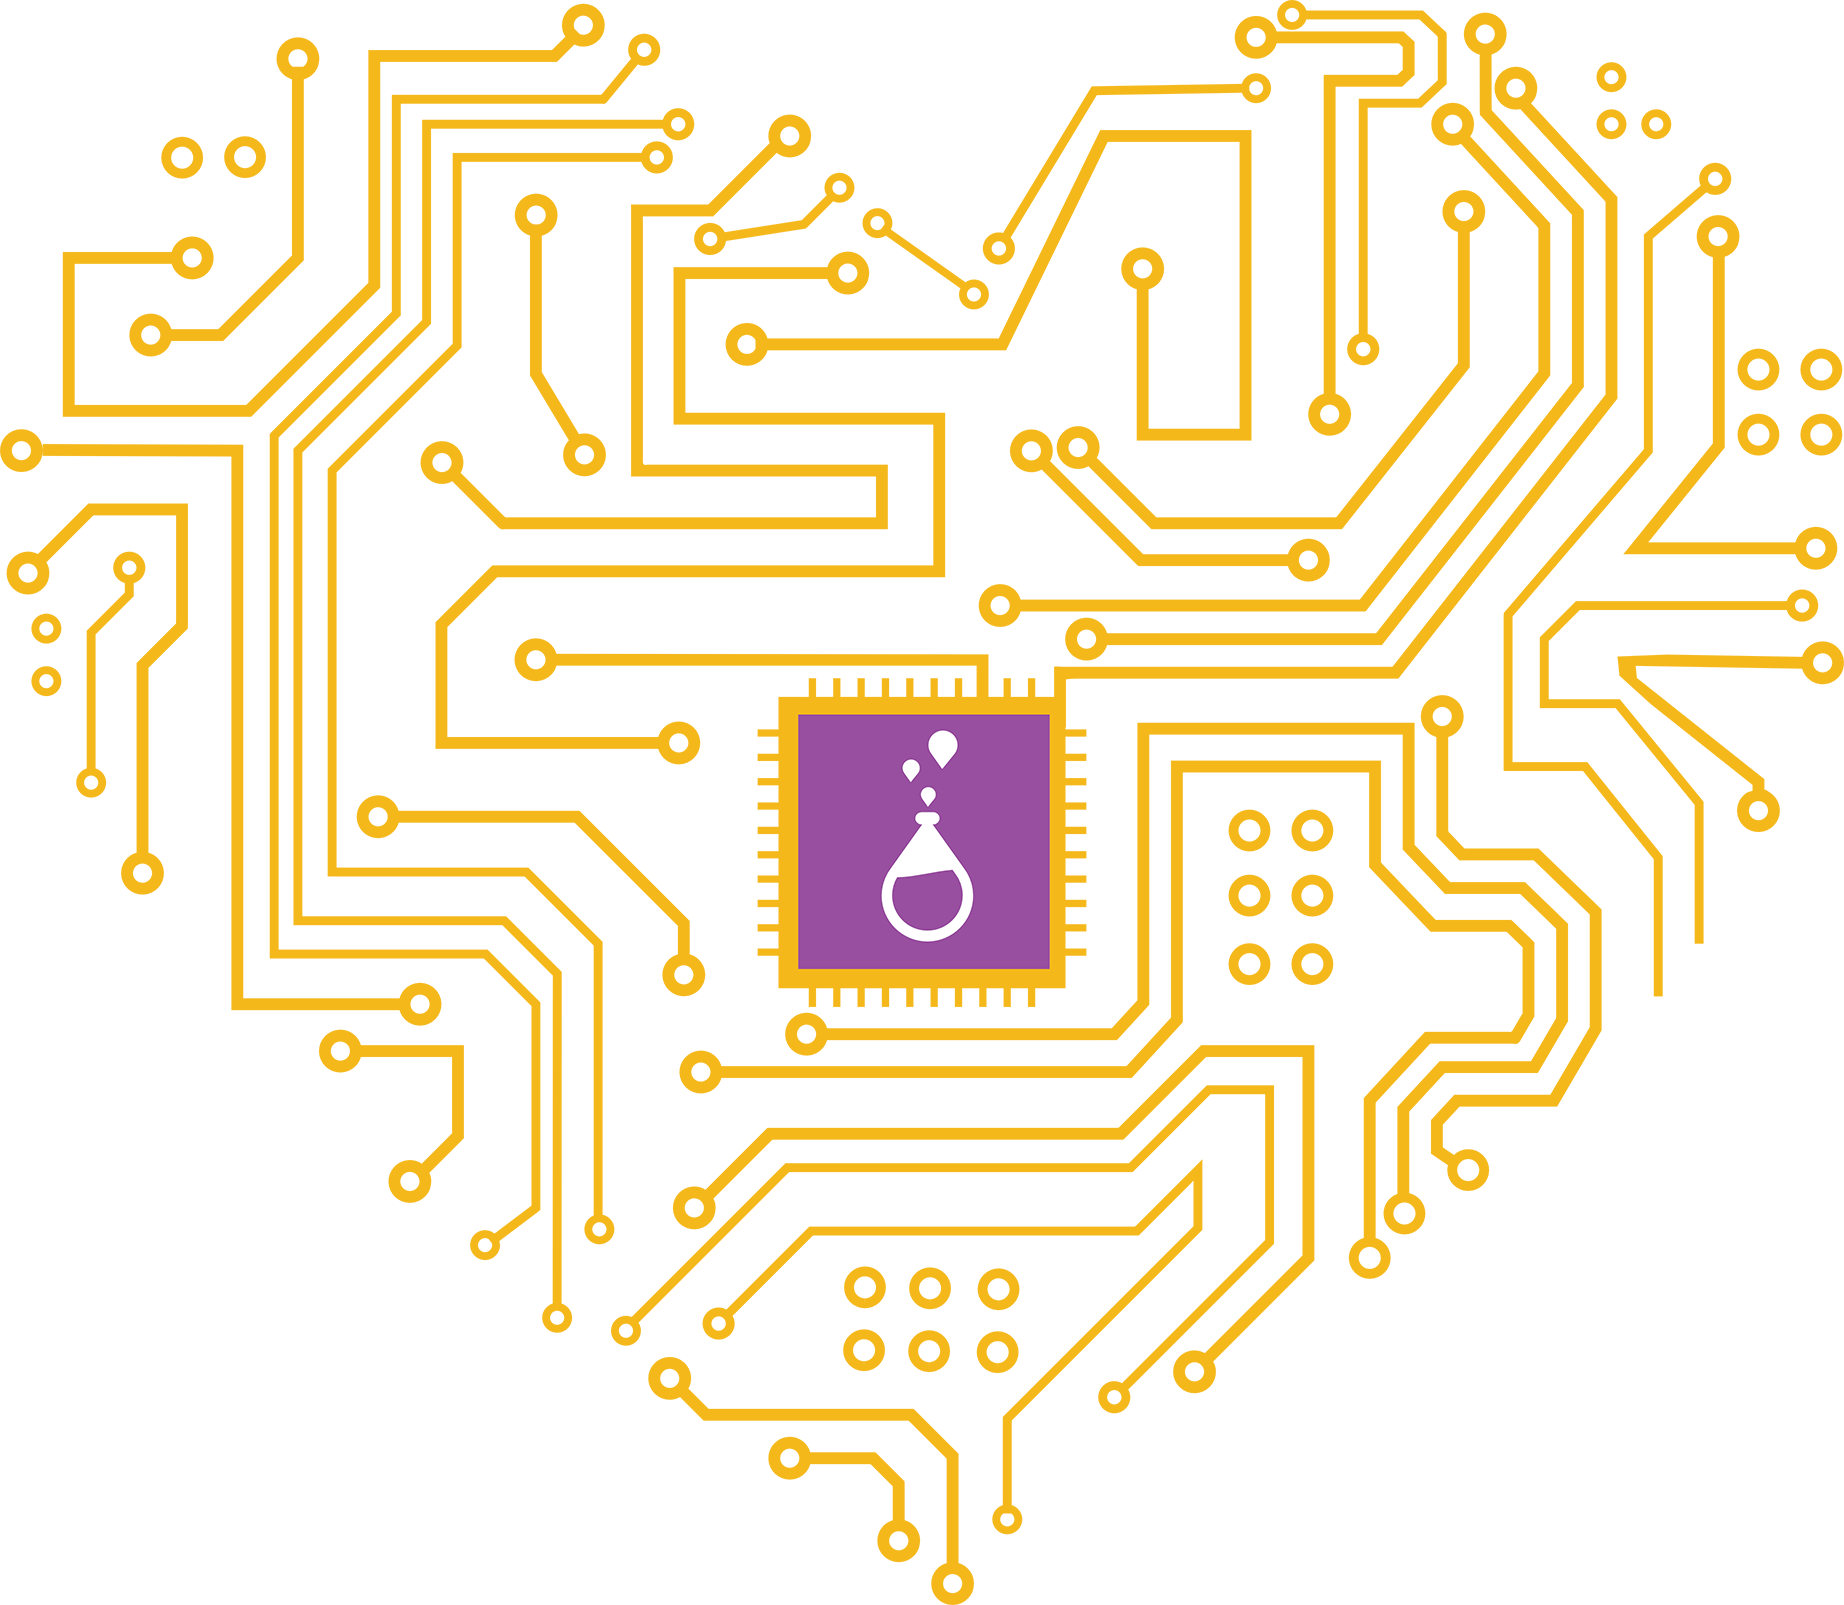
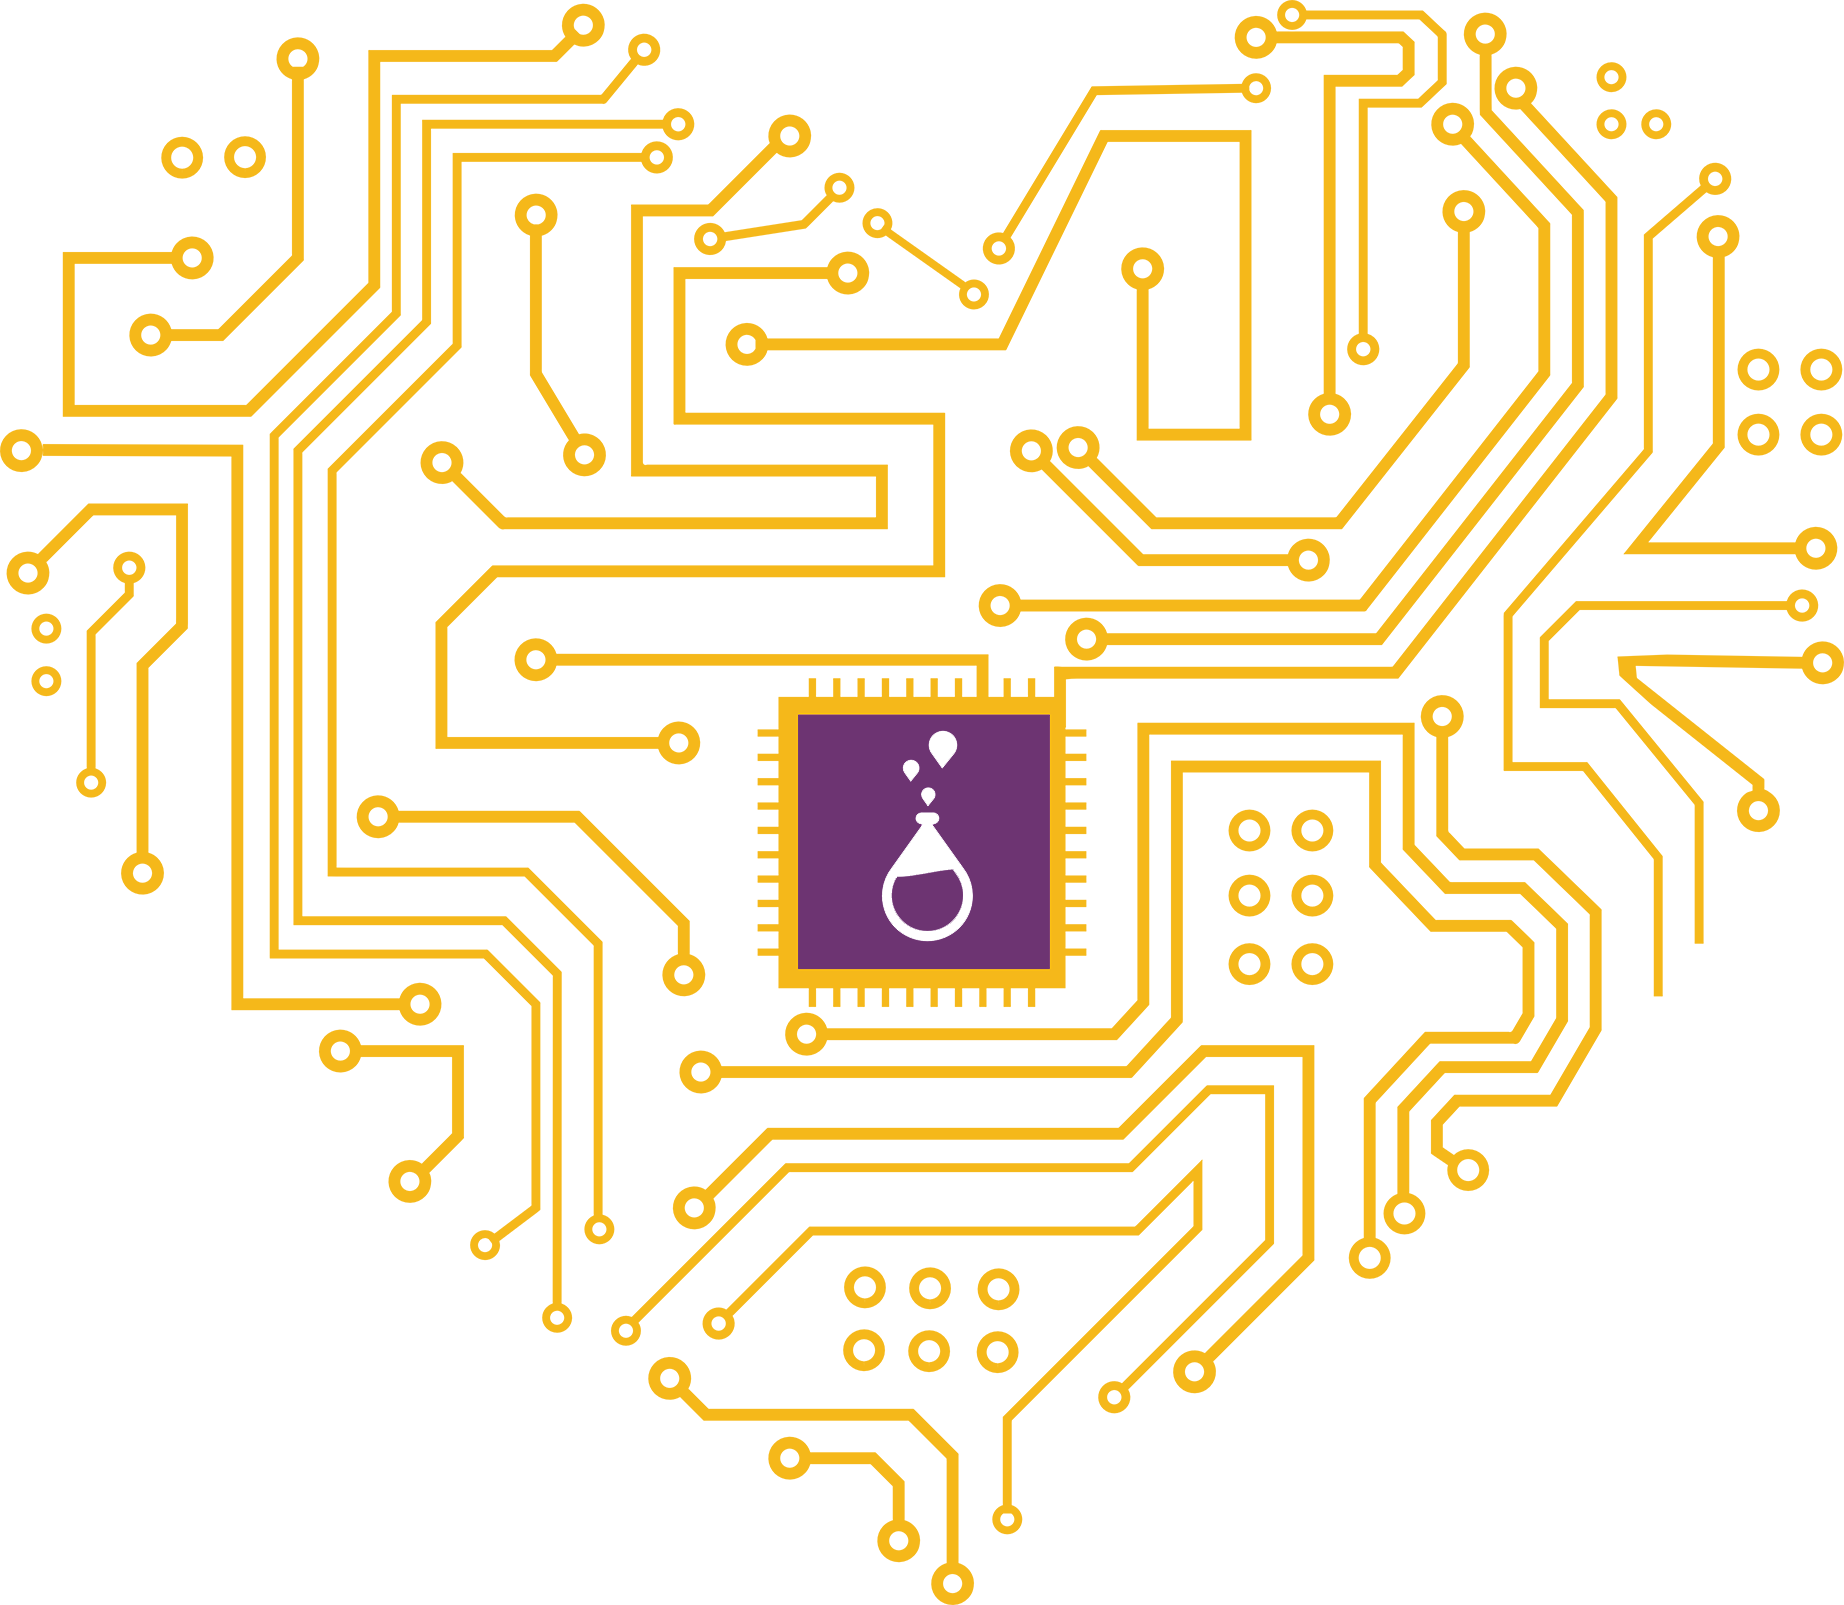
Content update

Changed region(s): [[0.4328, 0.4361, 0.5873, 0.6231]]

diff --git a/sass/_page-front.scss b/sass/_page-front.scss
@@ -26,7 +26,7 @@
     }
     button {
         height: 44px;
-        background: #97509E;
+        background: #6d3472;
         font-size: 1.5rem ;
 
         a {
@@ -75,6 +75,7 @@
             max-width: 80%;
             padding: 0 10%;
         }
+        
     }
     #f3 {
         .rxl{

diff --git a/public/css/main.css b/public/css/main.css
@@ -1366,7 +1366,7 @@ body {
     font-size: 2rem; }
   #page_front button {
     height: 44px;
-    background: #97509E;
+    background: #6d3472;
     font-size: 1.5rem; }
     #page_front button a {
       text-decoration: none;
